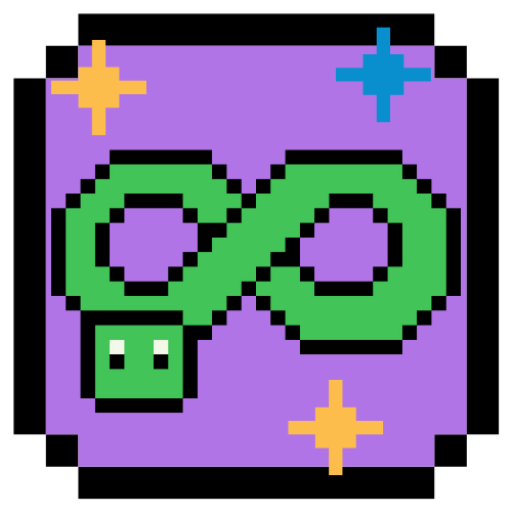
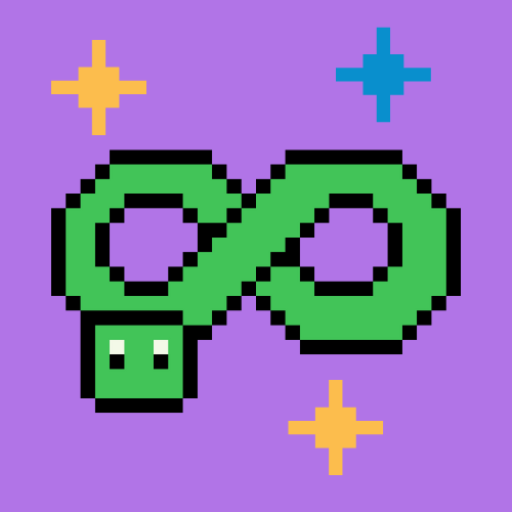
Fix mobile canvas scaling and border issues
- Remove 0.85 scale transform on mobile canvas for full screen gameplay
- Skip border drawing on mobile to prevent visible inner rectangle
- Game now uses full screen without scaling or visible borders
- Improves playable area on iPad/mobile devices

🤖 Generated with [Claude Code](https://claude.ai/code)

diff --git a/index.html b/index.html
@@ -6851,9 +6851,9 @@
         
         /* Mobile modes are now enabled - no restrictions */
         
-        /* Mobile canvas zoom - 15% zoom out */
+        /* Mobile canvas - no zoom for full screen gameplay */
         body.mobile #gameCanvas {
-            transform: scale(0.85);
+            transform: none !important;
             transform-origin: center center;
             width: 100vw !important;
             height: 100vh !important;

diff --git a/js/core/game-original.js b/js/core/game-original.js
@@ -11825,6 +11825,11 @@
         }
         
         function drawBorders() {
+            // Skip border drawing on mobile to prevent visible rectangle
+            if (isMobile) {
+                return;
+            }
+            
             // Save context state
             ctx.save();
             
